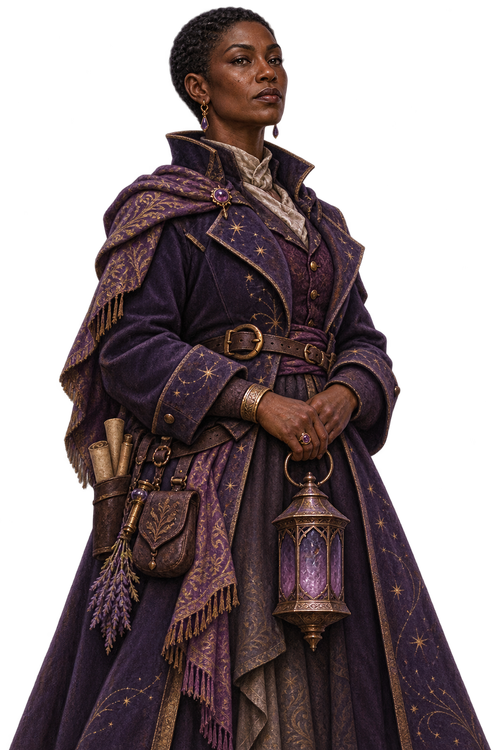
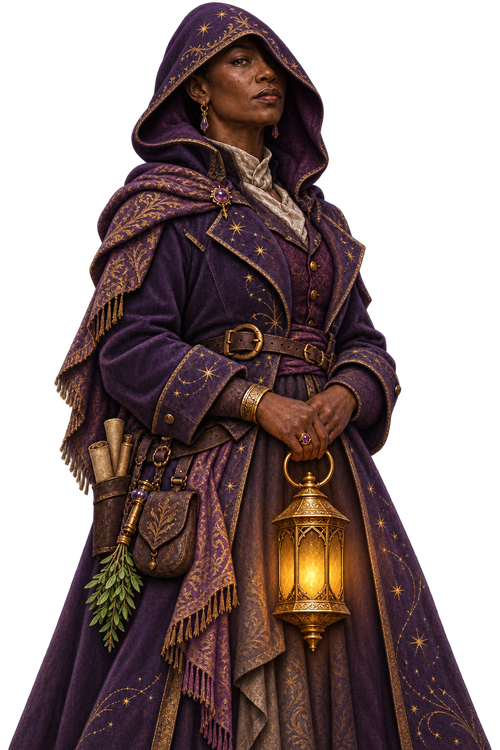
Dialogue: replies show the full menu (asked options grayed) instead of Go back; Nkemi's menu + the court wizard; Harlan sells food and the 10th chestnut; Arcana Potion 75g; longer Inspect; new Nkemi portrait
Claude-Session: https://claude.ai/code/session_014Hg99mA8mRU3gu7WJJwuAo

diff --git a/js/main.js b/js/main.js
@@ -1440,7 +1440,35 @@ async function boot() {
   // grantItem's thankYou). grantItem/feedGaffer/followUp return true so
   // ui.chooseResponse() keeps the dialog open instead of closing.
   function applyResponseEffect(npc, index) {
-    const effect = npc.dialog.responseEffects?.[index];
+    return runResponseEffect(npc, npc.dialog.responseEffects?.[index]);
+  }
+
+  // "Go back." / "Leave." endings show the whole menu instead (2026-11-06,
+  // Danny): when a reply's only options are exactly those two, the reply line
+  // stays and the options become what "Go back." would have shown, with the
+  // ones already asked this conversation grayed (ui.js .used). The target is
+  // either a stored snapshot ({goBack}) or a menu-rebuild effect (calderMenu,
+  // nkemiMenu, ...), which is run with its render captured instead of shown.
+  let captureContent = null;
+  ui.setDialogContentFilter((npc, content) => {
+    if (captureContent) { captureContent.content = content; return null; }
+    const r = content.responses;
+    if (r?.length === 2 && r[0] === 'Go back.' && r[1] === 'Leave.' && npc) {
+      const back = content.responseEffects?.[0];
+      let target = null;
+      if (back?.goBack) target = back.goBack;
+      else if (back) {
+        captureContent = {};
+        try { runResponseEffect(npc, back); } finally { target = captureContent.content; captureContent = null; }
+      }
+      if (target?.responses?.length) {
+        return { ...content, responses: target.responses, responseEffects: target.responseEffects || [], markUsed: true };
+      }
+    }
+    return content;
+  });
+
+  function runResponseEffect(npc, effect) {
     if (!effect) return;
     // "Go back." on a follow-up line — restore the dialog content the
     // follow-up replaced (captured below), so the player can revisit the
@@ -3418,6 +3446,10 @@ async function boot() {
   const NYTHSURGE_PRICE = 80;
   const WENDELL_ROCK_LINE = 'Oh, how marvellous. No, it isn’t writing, I’m sorry to say. I know every script in this shop and that is none of them. That’s older than letters. If anyone in Kingsreach can tell you what it is, it’s Nkemi Vesper at the Violet Lantern, just west of the square. Don’t let her frighten you. She does it to everyone.';
   const NKEMI_STONE_AMAZED = 'Where did you find this? No, don’t tell me yet. Do you know what you’re holding? Neither do I, not entirely, and I can count on one hand the things I can say that about. This isn’t a stone. It’s been waiting to be one. Leave it with me. I need time with it, and quiet, and a few books nobody in this city knows I own. Come back later and I’ll tell you what it is.';
+  // Nkemi and the court wizard studied together at the Collegium at Wyrmcrest
+  // (overworld A1, the School of Sorcery, northwest of the castle). She doubts
+  // the official story. Spoiler line: she must NOT know the truth, only doubt.
+  const NKEMI_WIZARD = 'I knew him before he was anybody’s court wizard. We were students together at the Collegium at Wyrmcrest, up in the mountains northwest of the castle. Seven years of cold stone floors and colder masters. He was the best of us, and the least interested in being told so. Now this whole city says he stole the king’s daughter. I don’t believe it. The man I knew wouldn’t take a book off a shelf without asking. Something happened up there, and nobody is asking what. So I am. I mean to find out what really happened.';
   const NKEMI_STONE_KEEP = 'Then keep it close, and keep it dry. Don’t show it to anyone who smiles too quickly. The offer stands.';
   const NKEMI_STONE_TAKEN = 'Thank you. I’ll take better care of it than whoever lost it did. Go on, go and do whatever it is you do. Come back once you’ve been away a while. These things don’t like being watched while they wake.';
   const NKEMI_STONE_WAIT = 'Not yet. It’s still waking. Go and be somewhere else for a while. Staring at my door won’t make it faster. I’ve tried.';
@@ -3482,8 +3514,10 @@ async function boot() {
       if (nkemiStone === 'ready') opts.push(['Is the stone ready?', { nkemiStoneReady: true }]);
       if (nkemiStaff === 'none' && has('staff')) opts.push(['Show her Ysra’s staff.', { nkemiStaffShow: true }]);
       if (nkemiStaff === 'broken') opts.push(['About the gem from the staff…', { nkemiStaffOffer: true }]);
-      responses.unshift(...opts.map((o) => o[0]));
-      responseEffects.unshift(...opts.map((o) => o[1]));
+      opts.push(['Ask about the court wizard.', { followUp: NKEMI_WIZARD }]);
+      // Buy, Sell, (stone), (staff), wizard, Leave (2026-11-06, Danny).
+      responses.splice(2, 0, ...opts.map((o) => o[0]));
+      responseEffects.splice(2, 0, ...opts.map((o) => o[1]));
     }
     // Wendell can't read the stone, but he knows who can.
     if (npc.id === 'wendell_quillfeather' && nkemiStone === 'none' && inventory.some((it) => it.id === 'mysterious_rock')) {

diff --git a/js/ui.js b/js/ui.js
@@ -184,6 +184,8 @@ export function openDialog(npc, onClose, onResponse) {
   dialogState.onClose = onClose || null;
   dialogState.onResponse = onResponse || null;
   dialogState.locked = !!npc.lockDialog;
+  dialogState.used = new Set(); // responses picked this conversation
+  dialogState.markUsed = false;
 
   $('dialog-name').textContent = npc.name;
   $('dialog-role').textContent = npc.role || '';
@@ -266,6 +268,9 @@ function renderResponses(responses) {
   responses.forEach((text, i) => {
     const el = document.createElement('span');
     el.className = 'response';
+    // A menu shown again after a reply grays out what the player already asked
+    // (2026-11-06; see setDialogContentFilter). Still selectable.
+    if (dialogState.markUsed && text !== 'Leave.' && dialogState.used?.has(text)) el.classList.add('used');
     el.textContent = text;
     el.addEventListener('click', () => { dialogState.selected = i; chooseResponse(); });
     el.addEventListener('mouseenter', () => { dialogState.selected = i; refreshSelection(); });
@@ -305,6 +310,8 @@ function chooseResponse() {
   // Mid-line "Continue": advance to the next page rather than acting on a
   // response — the real options only live on the last page (see beginPagedLine).
   if (dialogState.paging) { dialogState.page += 1; showDialogPage(true); return; }
+  const picked = dialogState.npc?.dialog?.responses?.[dialogState.selected];
+  if (picked) dialogState.used?.add(picked);
   // Most responses are still placeholders that just close the dialog, but a
   // response can carry a real effect (e.g. Gaffer's bite, or Mirelle's
   // vegetable-crate quest) — the caller that opened the dialog decides what
@@ -324,7 +331,20 @@ function chooseResponse() {
 // taken. responseEffects defaults to none (a plain closing line). `contents`
 // is optional — pass it (a place's updated [{id,name}] list) to re-render
 // the Contents list; omitted for ordinary NPC dialog.
-export function updateDialogContent({ line, responses, responseEffects, contents }) {
+// main.js installs a filter that sees every content swap first (2026-11-06).
+// It may rewrite the content (a reply ending in just "Go back." / "Leave." is
+// shown with the full menu instead) or return null to swallow it (main uses
+// that to read what "Go back." would show without rendering it).
+let dialogContentFilter = null;
+export function setDialogContentFilter(fn) { dialogContentFilter = fn; }
+
+export function updateDialogContent(content) {
+  if (dialogContentFilter) {
+    content = dialogContentFilter(dialogState.npc, content);
+    if (!content) return;
+  }
+  const { line, responses, responseEffects, contents } = content;
+  dialogState.markUsed = !!content.markUsed;
   // Only replay the typewriter effect if the line actually changed — a
   // place's room refreshing after taking an item (2026-07-09 fix, Danny:
   // "the description text only needs to build in one time") passes back the
@@ -478,7 +498,7 @@ export function showItemInspect(description, statLine) {
     });
     txt.appendChild(wrap);
   }
-  revealBanner(2500);
+  revealBanner(3500); // a second longer than a plain toast (2026-11-06, Danny)
 }
 
 // Quest lifecycle events use the same banner, gold-styled as their own beat.

diff --git a/js/data/b3.js b/js/data/b3.js
@@ -652,7 +652,11 @@ export default {
   npcs: [
     {
       id: 'harlan_brewick', name: 'Harlan Brewick', role: 'TAVERN KEEPER',
-      vendor: true, stock: [{ id: 'bread', qty: 4 }, { id: 'apple', qty: 2 }, { id: 'health_potion', qty: 2 }], gold: 50,
+      // Kingsreach's food seller (2026-11-06, Danny): 1-3 of every everyday food,
+      // and the game's 10th chestnut (qty 1, for Mateo). Left out on purpose:
+      // the Moonscale Trout (Darius's rare catch), Perrin's stew (his reward)
+      // and the Cragclaw Eggs (a boss drop).
+      vendor: true, stock: [{ id: 'bread', qty: 3 }, { id: 'apple', qty: 3 }, { id: 'cabbage', qty: 2 }, { id: 'corn', qty: 2 }, { id: 'chestnut', qty: 1 }, { id: 'bluegill', qty: 2 }, { id: 'trout', qty: 2 }, { id: 'sea_bass', qty: 2 }, { id: 'crimson_sailback', qty: 1 }], gold: 50,
       awayLine: 'Just stretching my legs, friend. The Tankard’s on the north side of the square. Find me behind the bar and I’ll sort you out.',
       sprite: 'assets/images/harlan_brewick_overhead.png',
       portrait: 'assets/images/harlan_brewick.png',
@@ -703,12 +707,9 @@ export default {
         { do: 'wait', s: 5 },
       ],
       dialog: { line: 'Ah. There you are. Come in, and close the door behind you. The lantern doesn’t like a draft. Look as long as you like. Most people leave with the thing they came for. A few leave with the thing they needed.', responses: ['Leave.'] },
-      chatter: [
-        { q: 'Who are you?', a: 'A shopkeeper. You’d be surprised how far that answer gets me.' },
-        { q: 'What is that lantern?', a: 'A light that only burns for people who mean what they say. It’s burning now. Interesting.' },
-        { q: 'Have we met before?', a: 'Not yet. Ask me again some other time.' },
-        { q: 'Do you sell magic?', a: 'Not in bottles. Real magic is older than that, and it doesn’t sit on shelves. It turns up in odd places, in the hands of people who have no idea what they’re carrying. If something like that ever finds its way to you, bring it to me.' },
-      ],
+      // No chatter (2026-11-06, Danny: her list ran off the page). Her menu is
+      // built in main.js's buildVendorDialog: Buy, Sell, the stone, the staff,
+      // the court wizard, Leave.
     },
     {
       id: 'yasmin_darrowel', name: 'Yasmin Darrowel', role: 'SHOPKEEPER',

diff --git a/css/style.css b/css/style.css
@@ -561,6 +561,10 @@ html, body {
   color: var(--text);
 }
 
+/* Already asked this conversation (2026-11-06): slightly grayed, still pickable. */
+#dialog-responses .response.used { color: #6e7074; }
+#dialog-responses .response.used.selected { color: #b9babc; }
+
 /* Item-received reveal: sits in the empty right side of the response box,
    under the portrait, sliding down + fading in when ui.showReceivedItem()
    plays it. Class removed/reflowed/re-added so it replays every time, same

diff --git a/js/data/items.js b/js/data/items.js
@@ -245,7 +245,7 @@ const ITEMS = {
     questItem: false,
     slot: 'item',
     arcana: 1,
-    price: 32,
+    price: 75,
   },
   // Chestnut (2026-10-10). Found on the ground in C3, C4 and D4, one in each
   // town's general store. Mateo Avellaneda (C3) wants ten; only nine exist so

diff --git a/CLAUDE.md b/CLAUDE.md
@@ -1944,3 +1944,15 @@ Danny reworked Mirelle's `vegetable_delivery` quest. **This supersedes the older
 
 **Verified** in headless Chrome against a local copy: both full dialogue flows (give, break, pay, leave B3 and return, ready), quest completion, equip/unequip of the staff, Nythsurge damaging all three foes, Vaelward reflecting every hit with no HP lost, the Magic tab and the Stats damage row, a reload with spells saved. No console errors (favicon only).
 - **Spell art (2026-11-05, later the same day):** Danny's painted `vaelward.png` / `nythsurge.png` (500×500, transparent) replaced the placeholder line icons in `items.js`. `icon_vaelward.svg` / `icon_nythsurge.svg` are still in assets/images but nothing references them.
+
+## Dialogue menus instead of "Go back.", Nkemi's menu + the court wizard, Harlan sells food (2026-11-06)
+
+- **"Go back." / "Leave." endings are gone (as shown).** ui.js's `updateDialogContent` runs every content swap through a filter main.js installs (`ui.setDialogContentFilter`, next to `applyResponseEffect`). When a reply's options are exactly `['Go back.', 'Leave.']`, the reply line stays and the options become what Go back would have shown: a stored `{goBack}` snapshot, or a menu-rebuild effect (calderMenu, nkemiMenu, mirelleMenu, orrisWeapon, ...) run with its render captured instead of drawn (`captureContent`). The body of `applyResponseEffect` moved into `runResponseEffect(npc, effect)` for this. The data still says "Go back." everywhere; only the display changed, so nothing else needed editing. **Any new "Go back." effect must be a pure menu rebuild** (no state changes), since it now runs every time that reply is shown.
+- Options already picked this conversation show grayed (`.response.used`, still selectable) in those merged menus only. ui.js records picked labels in `dialogState.used` (reset on openDialog). Ordinary menus are never grayed, so repeatable lines like Mateo's "Tell me another." stay normal.
+- Replies with other options alongside Go back (Senna, Sorcha's offer, Orris with the rock) are unchanged.
+- **Nkemi's menu is now exactly:** Buy, Sell, the stone option (if any), the staff option (if any), "Ask about the court wizard.", Leave. Her chatter was removed (it ran off the page with both items in the bag).
+- **The court wizard, per Nkemi:** they studied together at the **Collegium at Wyrmcrest**, in the mountains northwest of the castle (overworld A1, the "School of Sorcery"). She doesn't believe he took the princess and means to find out what really happened. She doubts; she does not know the truth. Keep it that way until the twist. The wizard is still unnamed.
+- **Arcana Potion price 32 → 75** (Nkemi's shop; sells back for 37).
+- **Harlan Brewick (the Gilded Tankard) is Kingsreach's food seller:** bread 3, apple 3, cabbage 2, corn 2, **chestnut 1 (the game's 10th, so Mateo's quest can be finished)**, bluegill 2, trout 2, sea bass 2, crimson sailback 1. He no longer sells health potions (Inés does). Left out on purpose: the Moonscale Trout (Darius's rare catch), Perrin's stew (his quest reward), Cragclaw Eggs (a boss drop).
+- **Inspect** keeps the item description up 3.5s (was 2.5s).
+- Nkemi's portrait (`nkemi_vesper.png`) replaced with Danny's new art.
